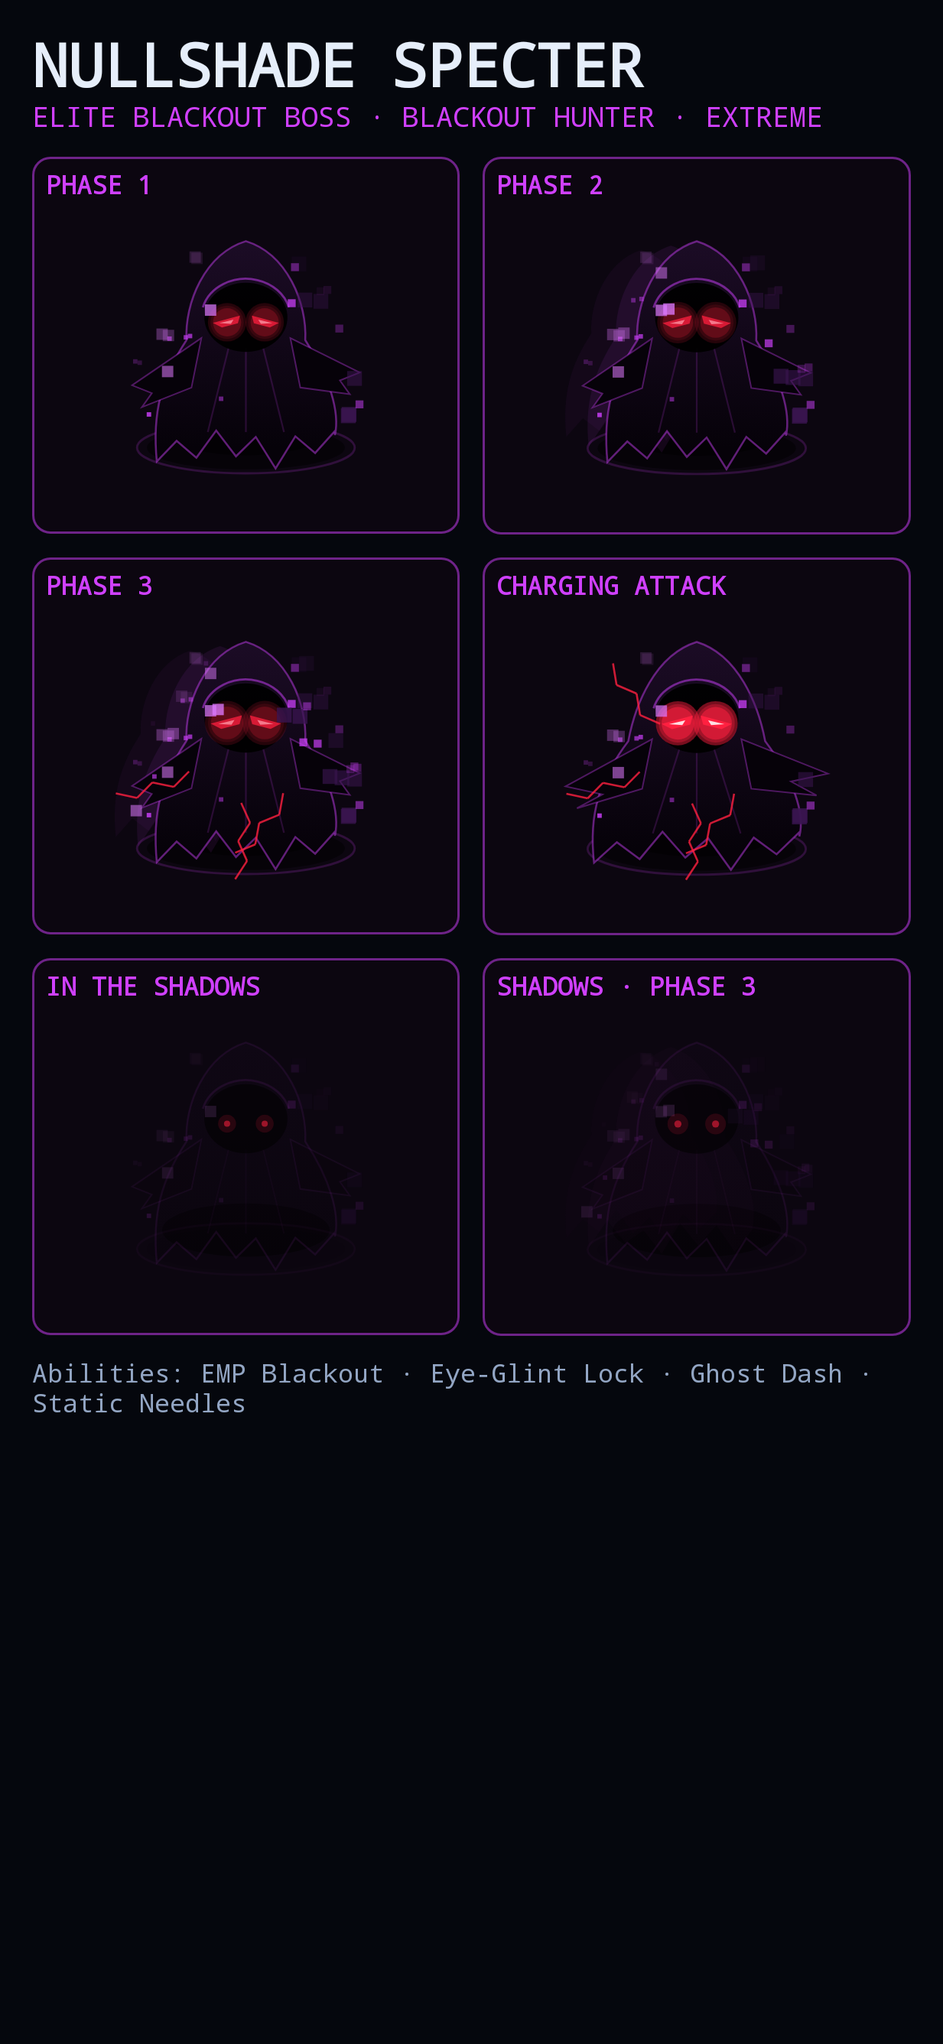
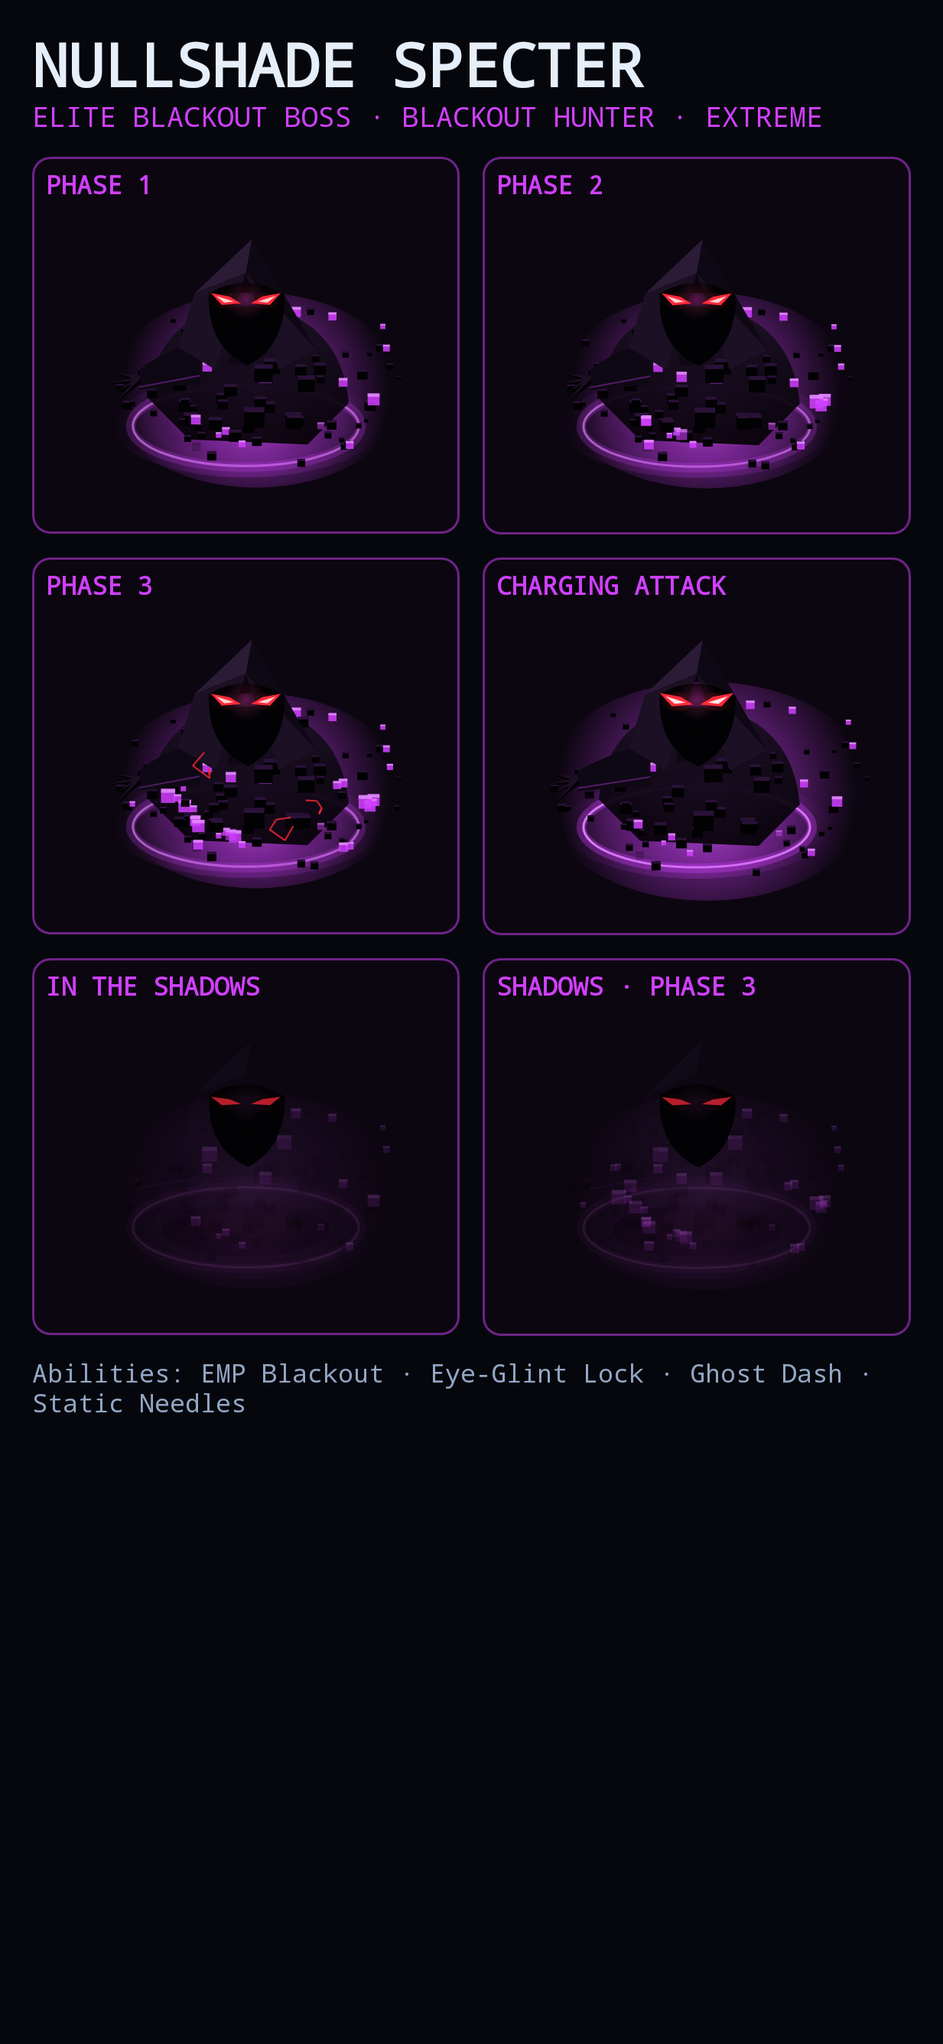
feat: Nullshade Specter body revision 2 — darkness ghost traced from owner reference (no outlines, faceted hood, sharp blinking eyes, voxel cloud, claw, floor ring)
Claude-Session: https://claude.ai/code/session_01J4fYSi9rfQR62SLnfyrDCN

diff --git a/app/src/main/java/com/cyberoperative/game/ui/game/BossBodyNullshadeSpecter.kt b/app/src/main/java/com/cyberoperative/game/ui/game/BossBodyNullshadeSpecter.kt
@@ -7,160 +7,208 @@ import androidx.compose.ui.graphics.Color
 import androidx.compose.ui.graphics.Path
 import androidx.compose.ui.graphics.drawscope.DrawScope
 import androidx.compose.ui.graphics.drawscope.Stroke
-import kotlin.math.abs
 import kotlin.math.cos
 import kotlin.math.sin
+import kotlin.math.sqrt
 
 /**
- * Nullshade Specter (dossier, BLACKOUT HUNTER): a floating hooded wraith whose
- * tattered cloak dissolves into magenta pixels, two angular red eyes burning
- * inside a pitch-black hood. Phase 2 trails phantom afterimages; phase 3
- * crackles with red static. While [BossPose.veiled] it melts into the dark and
- * only its eye-glints show.
+ * Nullshade Specter, revision 2, traced from the owner's reference
+ * (docs/boss-concepts/nullshade_reference_owner.webp): "Think DARKNESS GHOST",
+ * "There shouldn't be an outline really".
+ *
+ * A faceted dark hood over a pitch-black face, two sharp red eyes that blink and
+ * throw a faint red light around them, and a body that is not a robe at all but
+ * a cloud of black voxel blocks with magenta light bleeding between them. A
+ * clawed hand reaches out of the dark; a magenta energy ring burns on the floor.
+ * While [BossPose.veiled] it sinks into the dark and only its eye-glints show.
  */
 internal object NullshadeSpecterBody : BossBody {
-    private val CLOAK_TOP = Color(0xFF1C0C26)
-    private val CLOAK_BOTTOM = Color(0xFF060209)
-    private val EYE = Color(0xFFFF2040)
+    private val EYE = Color(0xFFFF2A3A)
+    private val HOOD_LIT = Color(0xFF2B1B36)
+    private val HOOD_MID = Color(0xFF1B1024)
+    private val HOOD_DARK = Color(0xFF0E0814)
+    private val VOID = Color(0xFF020103)
 
-    override fun DrawScope.draw(p: BossPose) {
-        // Drawn larger than its hit radius: it looms over the room.
-        val r = p.radius * 1.3f
-        val t = p.time
-        val purple = p.color
-        val hot = p.winding
-        // Visible amount: 1 in the open, ~0.18 deep in the shadows (eyes still glint).
-        val vis = 1f - 0.82f * p.veiled
-        val bob = sin(t * 1.8f) * r * 0.06f
-        val cy = p.cy + bob
-        val spread = if (hot) 1.15f else 1f
-
-        // Shadow pool and drifting pixel debris on the floor.
-        val ground = p.cy + r * 0.95f
-        drawOval(Color.Black.copy(alpha = 0.5f * vis), Offset(p.cx - r, ground - r * 0.22f), Size(r * 2f, r * 0.44f))
-        drawOval(purple.copy(alpha = 0.18f * vis), Offset(p.cx - r * 1.1f, ground - r * 0.26f), Size(r * 2.2f, r * 0.52f), style = Stroke(2f))
-
-        // Phase 2+: phantom afterimages drifting behind it.
-        if (p.phase >= 1) for (k in 1..2) {
-            val off = sin(t * 1.3f + k * 2f) * r * 0.5f * k
-            drawPath(cloakPath(p.cx + off, cy - r * 0.05f * k, r * (1f - 0.08f * k), t + k, spread), purple.copy(alpha = 0.08f * vis / k))
-        }
-
-        // Cloak with a dim magenta rim light.
-        val cloak = cloakPath(p.cx, cy, r, t, spread)
-        val top = if (p.hitFlash) Color(0xFF8A7090) else CLOAK_TOP
-        drawPath(cloak, Brush.verticalGradient(listOf(top.copy(alpha = vis), CLOAK_BOTTOM.copy(alpha = vis)), startY = cy - r * 1.2f, endY = cy + r * 0.9f))
-        drawPath(cloak, purple.copy(alpha = 0.45f * vis), style = Stroke(1.8f))
-        // Folds down the robe.
-        for (k in listOf(-0.35f, 0f, 0.35f)) {
-            drawLine(purple.copy(alpha = 0.16f * vis), Offset(p.cx + k * r * 0.5f, cy - r * 0.1f), Offset(p.cx + k * r * 1.1f * spread, cy + r * 0.75f), 1.6f)
-        }
-
-        // Tattered sleeves reaching out.
-        for (s in listOf(-1f, 1f)) {
-            val sway = sin(t * 2.2f + s) * r * 0.08f
-            val sleeve = Path().apply {
-                moveTo(p.cx + s * r * 0.45f, cy - r * 0.2f)
-                lineTo(p.cx + s * r * (1.15f * spread), cy + r * 0.2f + sway)
-                lineTo(p.cx + s * r * 0.95f, cy + r * 0.28f + sway)
-                lineTo(p.cx + s * r * (1.05f * spread), cy + r * 0.42f + sway)
-                lineTo(p.cx + s * r * 0.55f, cy + r * 0.3f)
-                close()
-            }
-            drawPath(sleeve, CLOAK_BOTTOM.copy(alpha = vis))
-            drawPath(sleeve, purple.copy(alpha = 0.35f * vis), style = Stroke(1.4f))
-        }
-
-        // Pitch-black hood opening.
-        val hoodC = Offset(p.cx, cy - r * 0.42f)
-        drawOval(Color.Black.copy(alpha = 0.95f * vis.coerceAtLeast(0.6f)), Offset(hoodC.x - r * 0.42f, hoodC.y - r * 0.34f), Size(r * 0.84f, r * 0.7f))
-        // Hood rim catching a little magenta light.
-        drawArc(purple.copy(alpha = 0.5f * vis), 195f, 150f, false, Offset(hoodC.x - r * 0.45f, hoodC.y - r * 0.38f), Size(r * 0.9f, r * 0.78f), style = Stroke(2f))
-
-        // Eyes: angular slits. Open = burning; veiled = faint blinking glints.
-        val look = Offset(cos(p.aim) * r * 0.05f, sin(p.aim) * r * 0.03f)
-        val blink = if (p.veiled > 0.5f) (if (((t * 1.4f).toInt() % 4) == 0) 0.25f else 1f) else 1f
-        val eyeA = when {
-            hot -> 1f
-            p.veiled > 0.5f -> 0.55f * blink
-            else -> 0.85f + 0.15f * sin(t * 3f)
-        }
-        val eyeW = r * (0.26f + 0.02f * p.phase) * (if (hot) 1.15f else 1f)
-        val veiledEyes = p.veiled > 0.5f && !hot
-        for (s in listOf(-1f, 1f)) {
-            val ec = Offset(hoodC.x + s * r * 0.19f + look.x, hoodC.y + r * 0.03f + look.y)
-            if (veiledEyes) {
-                // In the shadows: just a pair of glints.
-                drawCircle(EYE.copy(alpha = 0.25f * eyeA), eyeW * 0.35f, ec)
-                drawCircle(EYE.copy(alpha = eyeA), eyeW * 0.12f, ec)
-                continue
-            }
-            // Tight glow, then a sharp angled slit with a hot core.
-            glow(ec, eyeW * 0.45f, EYE, (if (hot) 2.2f else 0.9f) * eyeA)
-            drawCircle(EYE.copy(alpha = 0.22f * eyeA * (if (hot) 2f else 1f)), eyeW * 0.55f, ec)
-            val slit = Path().apply {
-                moveTo(ec.x - s * eyeW * 0.5f, ec.y - eyeW * 0.26f)
-                lineTo(ec.x + s * eyeW * 0.55f, ec.y + eyeW * 0.02f)
-                lineTo(ec.x + s * eyeW * 0.2f, ec.y + eyeW * 0.2f)
-                lineTo(ec.x - s * eyeW * 0.42f, ec.y + eyeW * 0.04f)
-                close()
-            }
-            drawPath(slit, EYE.copy(alpha = eyeA))
-            val core = Path().apply {
-                moveTo(ec.x - s * eyeW * 0.25f, ec.y - eyeW * 0.1f)
-                lineTo(ec.x + s * eyeW * 0.3f, ec.y + eyeW * 0.03f)
-                lineTo(ec.x - s * eyeW * 0.15f, ec.y + eyeW * 0.06f)
-                close()
-            }
-            drawPath(core, lighter(EYE, if (hot) 0.85f else 0.55f).copy(alpha = eyeA))
-        }
-
-        // The cloak dissolving into pixels (more each phase).
-        val bits = 26 + p.phase * 12
-        for (i in 0 until bits) {
-            val k = (t * (0.35f + (i % 5) * 0.06f) + i * 0.137f) % 1f
-            val side = if (i % 2 == 0) -1f else 1f
-            val bx = p.cx + side * r * (0.35f + ((i * 0.618f) % 1f) * 0.8f) + sin(t + i) * r * 0.08f
-            val by = cy + r * (0.8f - ((i * 0.381f) % 1f) * 1.4f) - k * r * 0.9f
-            val sz = r * (0.045f + 0.035f * (i % 4))
-            val col = when (i % 4) { 0, 1 -> purple; 2 -> lighter(purple, 0.3f); else -> Color(0xFF3A1550) }
-            drawRect(col.copy(alpha = (1f - k) * 0.85f * vis), Offset(bx, by), Size(sz, sz))
-        }
-
-        // Phase 3 / charging: red static arcs crackling around it.
-        if ((p.phase >= 2 || hot) && vis > 0.3f) {
-            val arcs = if (hot) 5 else 3
-            for (i in 0 until arcs) {
-                if (((t * 12f).toInt() + i * 3) % 4 == 0) continue
-                val a = 0.3f + i * 0.6f + (t * 3f).toInt() * 0.45f
-                var x = p.cx + cos(a) * r * 0.6f * (if (i % 2 == 0) 1f else -1f)
-                var y = cy + sin(a) * r * 0.45f
-                for (seg in 0 until 4) {
-                    val nx = x + cos(a + (seg % 2 - 0.5f)) * r * 0.22f
-                    val ny = y + sin(a + (seg % 2 - 0.5f)) * r * 0.22f
-                    drawLine(EYE.copy(alpha = 0.8f * vis), Offset(x, y), Offset(nx, ny), 1.8f)
-                    x = nx; y = ny
-                }
-            }
-        }
+    /** Stable pseudo-random 0..1 per index and salt. */
+    private fun hash(i: Int, salt: Int): Float {
+        var x = i * 374761393 + salt * 668265263
+        x = (x xor (x ushr 13)) * 1274126177
+        return ((x xor (x ushr 16)) and 0xFFFF) / 65535f
     }
 
-    /** Hooded robe: pointed hood, shoulders, flared body, ragged swaying hem. */
-    private fun cloakPath(cx: Float, cy: Float, r: Float, t: Float, spread: Float): Path = Path().apply {
-        moveTo(cx, cy - r * 1.18f)
-        cubicTo(cx + r * 0.42f, cy - r * 1.05f, cx + r * 0.62f, cy - r * 0.55f, cx + r * 0.6f * spread, cy - r * 0.18f)
-        cubicTo(cx + r * 0.85f * spread, cy + r * 0.2f, cx + r * 0.95f * spread, cy + r * 0.55f, cx + r * 0.9f * spread, cy + r * 0.78f)
-        // Ragged hem, right to left.
-        val teeth = 9
-        for (i in 0..teeth) {
-            val f = 1f - i / teeth.toFloat()
-            val x = cx + (f * 2f - 1f) * r * 0.9f * spread
-            val sway = sin(t * 3f + i * 1.3f) * r * 0.06f
-            val y = cy + r * (if (i % 2 == 0) 0.78f else 0.98f + 0.08f * abs(sin(i * 2.7f))) + sway
-            lineTo(x, y)
+    /** 0 = shut … 1 = open. Blinks every ~3.5 s (quick close and open). */
+    private fun eyeOpen(t: Float, hot: Boolean): Float {
+        if (hot) return 1f
+        val c = (t + 1.8f) % 3.6f
+        return if (c < 0.22f) kotlin.math.abs(c - 0.11f) / 0.11f else 1f
+    }
+
+    override fun DrawScope.draw(p: BossPose) {
+        val r = p.radius * 1.35f
+        val t = p.time
+        val mag = p.color
+        val hot = p.winding
+        val vis = 1f - 0.85f * p.veiled
+        val bob = sin(t * 1.6f) * r * 0.04f
+        val cy = p.cy + bob
+        val ground = p.cy + p.radius * 0.95f
+        val open = eyeOpen(t, hot) * (if (p.veiled > 0.5f && !hot) 0.7f else 1f)
+        val swell = if (hot) 1.12f else 1f
+
+        // Magenta light pooled on the floor, and the energy ring.
+        drawOval(
+            Brush.radialGradient(listOf(mag.copy(alpha = 0.32f * vis), mag.copy(alpha = 0f)), center = Offset(p.cx, ground), radius = r * 1.3f),
+            Offset(p.cx - r * 1.3f, ground - r * 0.5f), Size(r * 2.6f, r * 1.0f)
+        )
+        val ringA = (0.55f + 0.25f * sin(t * 2.2f) + (if (hot) 0.3f else 0f)) * vis
+        drawOval(mag.copy(alpha = ringA * 0.35f), Offset(p.cx - r * 1.12f, ground - r * 0.4f), Size(r * 2.24f, r * 0.8f), style = Stroke(9f))
+        drawOval(lighter(mag, 0.4f).copy(alpha = ringA), Offset(p.cx - r * 1.1f, ground - r * 0.39f), Size(r * 2.2f, r * 0.78f), style = Stroke(2.2f))
+        // Faint red light the eyes throw on the floor in front of it.
+        drawOval(EYE.copy(alpha = 0.12f * open * vis), Offset(p.cx - r * 0.5f, ground - r * 0.15f), Size(r, r * 0.3f))
+
+        // Magenta glow behind the voxel cloud.
+        val cloudC = Offset(p.cx + r * 0.1f, cy + r * 0.32f)
+        drawOval(
+            Brush.radialGradient(listOf(lighter(mag, 0.15f).copy(alpha = 0.85f * vis), mag.copy(alpha = 0.4f * vis), mag.copy(alpha = 0f)), center = cloudC, radius = r * 1.3f * swell),
+            Offset(cloudC.x - r * 1.45f * swell, cloudC.y - r * 0.95f * swell), Size(r * 2.9f * swell, r * 1.9f * swell)
+        )
+
+        // Shoulders: a soft dark mass, no outline, broken up by the blocks drawn over it.
+        val shoulders = Path().apply {
+            moveTo(p.cx - r * 0.95f, cy + r * 0.4f)
+            cubicTo(p.cx - r * 0.9f, cy - r * 0.2f, p.cx - r * 0.5f, cy - r * 0.5f, p.cx, cy - r * 0.5f)
+            cubicTo(p.cx + r * 0.5f, cy - r * 0.5f, p.cx + r * 0.95f, cy - r * 0.2f, p.cx + r * 1.0f, cy + r * 0.45f)
+            lineTo(p.cx + r * 0.6f, cy + r * 0.85f)
+            lineTo(p.cx - r * 0.55f, cy + r * 0.8f)
+            close()
         }
-        cubicTo(cx - r * 0.95f * spread, cy + r * 0.55f, cx - r * 0.85f * spread, cy + r * 0.2f, cx - r * 0.6f * spread, cy - r * 0.18f)
-        cubicTo(cx - r * 0.62f, cy - r * 0.55f, cx - r * 0.42f, cy - r * 1.05f, cx, cy - r * 1.18f)
-        close()
+        drawPath(shoulders, Brush.verticalGradient(listOf(HOOD_MID.copy(alpha = vis), VOID.copy(alpha = 0.9f * vis)), startY = cy - r * 0.45f, endY = cy + r * 0.75f))
+
+        // The voxel cloud: dark blocks (and a few lit magenta ones) spreading out of the body.
+        val blocks = 95 + p.phase * 20
+        for (i in 0 until blocks) {
+            // Denser near the body, thinning outward; drifts and flickers.
+            val ang = hash(i, 1) * 6.283f
+            val dist = sqrt(hash(i, 2)) * r * 1.25f * swell
+            val drift = sin(t * (0.6f + hash(i, 3)) + i) * r * 0.05f
+            val bx = cloudC.x + cos(ang) * dist * 1.15f + drift
+            val by = cloudC.y + sin(ang) * dist * 0.62f - ((t * 0.12f + hash(i, 4)) % 1f) * r * 0.25f
+            val life = (t * (0.3f + hash(i, 5) * 0.4f) + hash(i, 6)) % 1f
+            if (life > 0.92f) continue
+            val sz = r * (0.11f + 0.15f * hash(i, 7)) * (1f - dist / (r * 1.8f)).coerceIn(0.35f, 1f)
+            val lit = hash(i, 8) < 0.2f + 0.05f * p.phase
+            val a = vis * (if (life < 0.08f) life / 0.08f else 1f)
+            if (lit) {
+                drawRect(mag.copy(alpha = 0.85f * a), Offset(bx, by), Size(sz, sz))
+                drawRect(lighter(mag, 0.5f).copy(alpha = 0.7f * a), Offset(bx, by), Size(sz, sz * 0.28f))
+            } else {
+                // Black cube: a slightly lit top face catching the magenta glow.
+                drawRect(VOID.copy(alpha = a), Offset(bx, by), Size(sz, sz))
+                drawRect(Color(0xFF2A1238).copy(alpha = a), Offset(bx, by), Size(sz, sz * 0.25f))
+            }
+        }
+
+        // Clawed hand reaching out of the dark (toward the operative's side).
+        val side = if (cos(p.aim) < 0f) -1f else 1f
+        val reach = 1f + 0.06f * sin(t * 1.4f) + (if (hot) 0.12f else 0f)
+        val sx = p.cx + side * r * 0.45f
+        val sy = cy + r * 0.05f
+        val hx = p.cx + side * r * 0.98f * reach
+        val hy = cy + r * 0.22f
+        val arm = Path().apply {
+            moveTo(sx, sy - r * 0.2f)
+            quadraticTo(p.cx + side * r * 0.8f, sy - r * 0.12f, hx, hy - r * 0.1f)
+            lineTo(hx, hy + r * 0.1f)
+            quadraticTo(p.cx + side * r * 0.72f, sy + r * 0.22f, sx, sy + r * 0.22f)
+            close()
+        }
+        drawPath(arm, HOOD_DARK.copy(alpha = vis))
+        // Rim of magenta light along the underside only (light from below, not an outline).
+        drawLine(mag.copy(alpha = 0.35f * vis), Offset(sx, sy + r * 0.13f), Offset(hx, hy + r * 0.07f), 1.4f)
+        for (k in 0 until 4) {
+            val fa = (if (side > 0f) 0f else Math.PI.toFloat()) + (k - 1.5f) * 0.32f * side + 0.25f * side
+            val curl = sin(t * 2f + k) * 0.08f
+            crystal(hx, hy, fa + curl, r * (0.26f + 0.05f * (k % 2)), r * 0.07f, Color(0xFF1C1024).copy(alpha = vis), VOID.copy(alpha = vis), Color.Transparent)
+        }
+
+        // Faceted hood (low-poly planes, no outline).
+        val hc = Offset(p.cx, cy - r * 0.55f)
+        val tip = Offset(p.cx + r * 0.06f, cy - r * 1.15f)
+        val l = Offset(p.cx - r * 0.66f, cy - r * 0.1f)
+        val rr = Offset(p.cx + r * 0.68f, cy - r * 0.08f)
+        val chinL = Offset(p.cx - r * 0.3f, cy + r * 0.12f)
+        val chinR = Offset(p.cx + r * 0.32f, cy + r * 0.12f)
+        val brow = Offset(p.cx, cy - r * 0.82f)
+        fun facet(c: Color, pts: List<Offset>) {
+            drawPath(Path().apply { moveTo(pts[0].x, pts[0].y); for (q in 1 until pts.size) lineTo(pts[q].x, pts[q].y); close() }, c.copy(alpha = vis))
+        }
+        val flash = if (p.hitFlash) 0.5f else 0f
+        val browL = Offset(p.cx - r * 0.5f, cy - r * 0.62f)
+        facet(lighter(HOOD_LIT, flash), listOf(tip, brow, browL))
+        facet(lighter(HOOD_MID, flash), listOf(browL, brow, chinL, l))
+        facet(lighter(HOOD_DARK, flash), listOf(tip, rr, brow))
+        facet(lighter(HOOD_MID, flash * 0.6f), listOf(brow, rr, chinR))
+        facet(lighter(HOOD_LIT, flash * 0.6f), listOf(tip, browL, Offset(p.cx - r * 0.12f, cy - r * 0.95f)))
+
+        // Face: a pitch-black hollow, its inner edge lit faintly red by the eyes.
+        val face = Path().apply {
+            moveTo(p.cx - r * 0.36f, cy - r * 0.62f)
+            quadraticTo(p.cx, cy - r * 0.84f, p.cx + r * 0.38f, cy - r * 0.6f)
+            quadraticTo(p.cx + r * 0.38f, cy - r * 0.1f, p.cx + r * 0.02f, cy + r * 0.08f)
+            quadraticTo(p.cx - r * 0.38f, cy - r * 0.1f, p.cx - r * 0.36f, cy - r * 0.62f)
+            close()
+        }
+        drawPath(face, Brush.radialGradient(
+            listOf(EYE.copy(alpha = 0.14f * open * vis), VOID.copy(alpha = 0.98f), VOID),
+            center = Offset(hc.x, hc.y - r * 0.02f), radius = r * 0.42f
+        ))
+
+        // Eyes: sharp almond slits angled up and out; white-hot cores.
+        val look = Offset(cos(p.aim) * r * 0.03f, sin(p.aim) * r * 0.02f)
+        val eyeW = r * 0.25f * (if (hot) 1.12f else 1f)
+        val glint = p.veiled > 0.5f && !hot
+        for (s in listOf(-1f, 1f)) {
+            val ec = Offset(hc.x + s * r * 0.185f + look.x, hc.y - r * 0.02f + look.y)
+            if (open <= 0.05f) continue
+            // Faint red light spilling around the eye.
+            // Owner, 2026-10-10: "Fainter glow around the eyes. They should be sharper", then "bigger eyes please".
+            drawOval(
+                Brush.radialGradient(listOf(EYE.copy(alpha = (if (glint) 0.08f else 0.14f) * open * (if (hot) 1.5f else 1f)), EYE.copy(alpha = 0f)), center = ec, radius = eyeW * 0.6f),
+                Offset(ec.x - eyeW * 0.6f, ec.y - eyeW * 0.32f), Size(eyeW * 1.2f, eyeW * 0.64f)
+            )
+            val h = eyeW * 0.3f * open
+            // Pointed blade-like slit: sharp inner and outer corners, angled up and out.
+            val eye = Path().apply {
+                moveTo(ec.x - s * eyeW * 0.55f, ec.y + h * 0.35f)
+                lineTo(ec.x - s * eyeW * 0.1f, ec.y - h * 0.55f)
+                lineTo(ec.x + s * eyeW * 0.62f, ec.y - h * 1.0f)
+                lineTo(ec.x + s * eyeW * 0.2f, ec.y + h * 0.55f)
+                close()
+            }
+            drawPath(eye, EYE.copy(alpha = if (glint) 0.7f else 1f))
+            if (!glint) {
+                val core = Path().apply {
+                    moveTo(ec.x - s * eyeW * 0.28f, ec.y + h * 0.1f)
+                    lineTo(ec.x + s * eyeW * 0.42f, ec.y - h * 0.62f)
+                    lineTo(ec.x + s * eyeW * 0.1f, ec.y + h * 0.25f)
+                    close()
+                }
+                drawPath(core, Color(0xFFFFE6E6).copy(alpha = if (hot) 1f else 0.9f))
+            }
+        }
+
+        // Phase 3: red static flickering through the cloud.
+        if (p.phase >= 2 && vis > 0.3f) for (i in 0 until 3) {
+            if (((t * 10f).toInt() + i * 3) % 3 == 0) continue
+            val a0 = hash(i + (t * 4f).toInt() * 7, 9) * 6.283f
+            var x = cloudC.x + cos(a0) * r * 0.5f
+            var y = cloudC.y + sin(a0) * r * 0.35f
+            for (seg in 0 until 4) {
+                val nx = x + (hash(i * 5 + seg, 10) - 0.5f) * r * 0.35f
+                val ny = y + (hash(i * 5 + seg, 11) - 0.5f) * r * 0.3f
+                drawLine(EYE.copy(alpha = 0.75f * vis), Offset(x, y), Offset(nx, ny), 1.6f)
+                x = nx; y = ny
+            }
+        }
     }
 }

diff --git a/app/src/main/java/com/cyberoperative/game/ui/game/ArenaRenderer.kt b/app/src/main/java/com/cyberoperative/game/ui/game/ArenaRenderer.kt
@@ -977,7 +977,8 @@ class ArenaRenderer {
             drawCircle(Color(elite.color).copy(alpha = 0.15f + 0.15f * p), e.radius * 1.55f, Offset(cx, cy))
             drawCircle(Color(elite.color).copy(alpha = 0.85f), e.radius * 1.3f, Offset(cx, cy), style = Stroke(2.5f))
         }
-        if (boss != null) drawCircle(base.copy(alpha = 0.14f + 0.08f * sin(time * 3f)), e.radius * 1.7f, Offset(cx, cy))
+        // Stealth bosses (Nullshade) bring their own light; no hard aura disc behind them.
+        if (boss != null && !boss.def.stealth) drawCircle(base.copy(alpha = 0.14f + 0.08f * sin(time * 3f)), e.radius * 1.7f, Offset(cx, cy))
         val customBody = boss?.let { BossBodies.forId(it.def.id) }
         if (boss != null && customBody != null) {
             val pose = BossPose(

diff --git a/docs/BOSS_EXPANSION_LOG.md b/docs/BOSS_EXPANSION_LOG.md
@@ -231,7 +231,7 @@ CONTROLLER / AREA CONTROL / HUNTER on these four).
 |---|---|---|---|
 | Vault Sentinel | 2026-10-10 (`docs/bosses/designs/vault_sentinel_*.png`) | ✅ **FINAL**: body (20% larger) and attacks approved — "Vault sentinel looks great thank you." | "Looks great… can it be slightly larger? … show me its attacks … spawn cubes (barrier blocks out of the floor restricting player movement)" |
 | Rootkit Apostle | 2026-10-10 (`docs/bosses/designs/rootkit_apostle_*`) | ✅ **FINAL**: body (rev 2) and attacks approved — "Approved; start on Nullshade Specter" | "Darker body, eye can glow dim to bright back and forth slowly and is bright when attack" |
-| Nullshade Specter | 2026-10-10 (`docs/bosses/designs/nullshade_*`) | ⏳ body waiting | |
+| Nullshade Specter | 2026-10-10 (`docs/bosses/designs/nullshade_*`) | ⏳ revision 2 sent (traced from owner reference `boss-concepts/nullshade_reference_owner.webp`) | Rev 1 rejected: "Not a fan of that design… trace as best as possible. There shouldn't be an outline really. Think DARKNESS GHOST"; eyes blink + faint light; "Fainter glow around the eyes… sharper"; "bigger eyes please" |
 
 ---
 
@@ -278,3 +278,8 @@ CONTROLLER / AREA CONTROL / HUNTER on these four).
   - New `BossPose.veiled` for its shadow state (only glints show). The design sheet and GIF show the
     shadow state for stealth bosses.
   - Def: L240, EXTREME, base €435, `stealth = true`, provisional patterns; in `designed` only.
+- 2026-10-10 — Nullshade revision 2, traced from the owner's reference image.
+  - Faceted hood with no outlines; a pitch-black face.
+  - Big, sharp blade eyes with a faint glow; they blink every 3.6 s and cast faint red light.
+  - The body is a voxel-block cloud with magenta light between the blocks, plus a clawed hand,
+    a floor energy ring and no aura disc.
